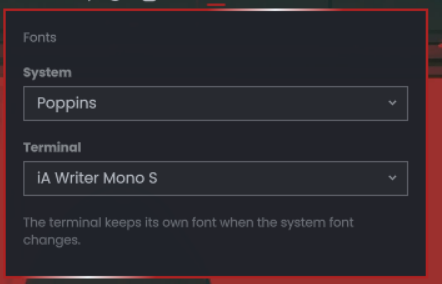
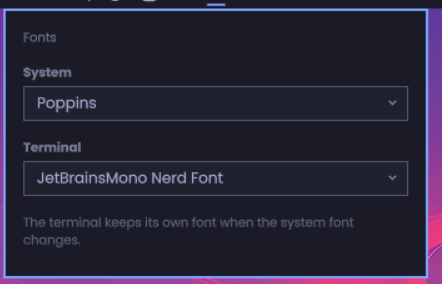
Offer the fonts Omarchy can install, not just the installed ones
Both pickers listed only what fc-list already reported, so they showed fewer
fonts than Omarchy's own Style > Font menu offers. The six families under
Install > Style > Font were missing entirely: Cascadia Mono, Meslo LG Mono,
Fira Code, Victor Code, Bitstream Vera Code and Iosevka.

They are now in both lists, labelled with the package that provides them.
Picking one opens the same floating terminal Omarchy uses for a font install,
runs omarchy-pkg-add, then re-enters this script to apply the family, so the
terminal pin and the system font both work that way.

Rows moved to a value/label/description triple over `system-options` and
`terminal-options`; the plain `-list` commands still report installed
families only, for scripting.

Changed region(s): [[0.0, 0.0, 1.0, 1.0], [0.0882, 0.5915, 0.5, 0.6479]]

diff --git a/Panel.qml b/Panel.qml
@@ -51,14 +51,33 @@ KeyboardPanel {
     if (hostWidget) hostWidget.refresh()
   }
 
-  function splitLines(text) {
+  // Rows arrive as value<TAB>label<TAB>description. The description is set
+  // only for a font Omarchy can install but has not, so the picker can say so
+  // rather than silently offering something that is not on the disk yet.
+  function parseOptions(text) {
     var out = []
     var lines = String(text || "").split("\n")
     for (var i = 0; i < lines.length; i++) {
-      var line = lines[i].trim()
-      if (line !== "") out.push(line)
+      if (lines[i].trim() === "") continue
+      var parts = lines[i].split("\t")
+      var family = String(parts[0] || "").trim()
+      if (family === "") continue
+      out.push({
+        value: family,
+        label: String(parts[1] || family).trim(),
+        description: String(parts[2] || "").trim()
+      })
     }
     return out
+  }
+
+  // A chosen font that still has to be downloaded opens a floating terminal
+  // for pacman, so get the popup out of the way.
+  function needsInstall(options, family) {
+    for (var i = 0; i < options.length; i++) {
+      if (options[i].value === family) return options[i].description !== ""
+    }
+    return false
   }
 
   // Changing the system font restarts the shell, which tears this panel down
@@ -76,6 +95,7 @@ KeyboardPanel {
     busy = true
     terminalSetProc.command = [cli, "terminal-set", family]
     terminalSetProc.running = true
+    if (needsInstall(terminalOptions, family)) close()
   }
 
   contentWidth: fittedContentWidth(Style.space(340))
@@ -152,18 +172,18 @@ KeyboardPanel {
   }
 
   property Process systemListProc: Process {
-    command: [root.cli, "system-list"]
+    command: [root.cli, "system-options"]
     stdout: StdioCollector {
       waitForEnd: true
-      onStreamFinished: root.systemOptions = root.splitLines(text)
+      onStreamFinished: root.systemOptions = root.parseOptions(text)
     }
   }
 
   property Process terminalListProc: Process {
-    command: [root.cli, "terminal-list"]
+    command: [root.cli, "terminal-options"]
     stdout: StdioCollector {
       waitForEnd: true
-      onStreamFinished: root.terminalOptions = root.splitLines(text)
+      onStreamFinished: root.terminalOptions = root.parseOptions(text)
     }
   }
 

diff --git a/README.md b/README.md
@@ -36,6 +36,12 @@ exactly as shipped. The hook installs itself the first time the widget loads.
 The terminal list is monospace only, on purpose. I already know how that story
 ends.
 
+Both pickers also carry the six fonts Omarchy offers under Install > Style >
+Font, even when they are not on the machine yet. They are marked as such, and
+picking one opens the same floating terminal Omarchy uses to install a font,
+then applies it. Showing fewer fonts than the stock menu offers felt like the
+wrong kind of surprise.
+
 ## Install
 
 ```bash
@@ -62,6 +68,7 @@ The widget is a view over a CLI that works on its own:
 
 ```bash
 bin/oma-dual-font doctor            # what is installed and what is set
+bin/oma-dual-font terminal-options  # picker rows, installable fonts included
 bin/oma-dual-font system-set Poppins
 bin/oma-dual-font terminal-set 'iA Writer Mono S'
 bin/oma-dual-font terminal-clear    # terminals follow the system font again
